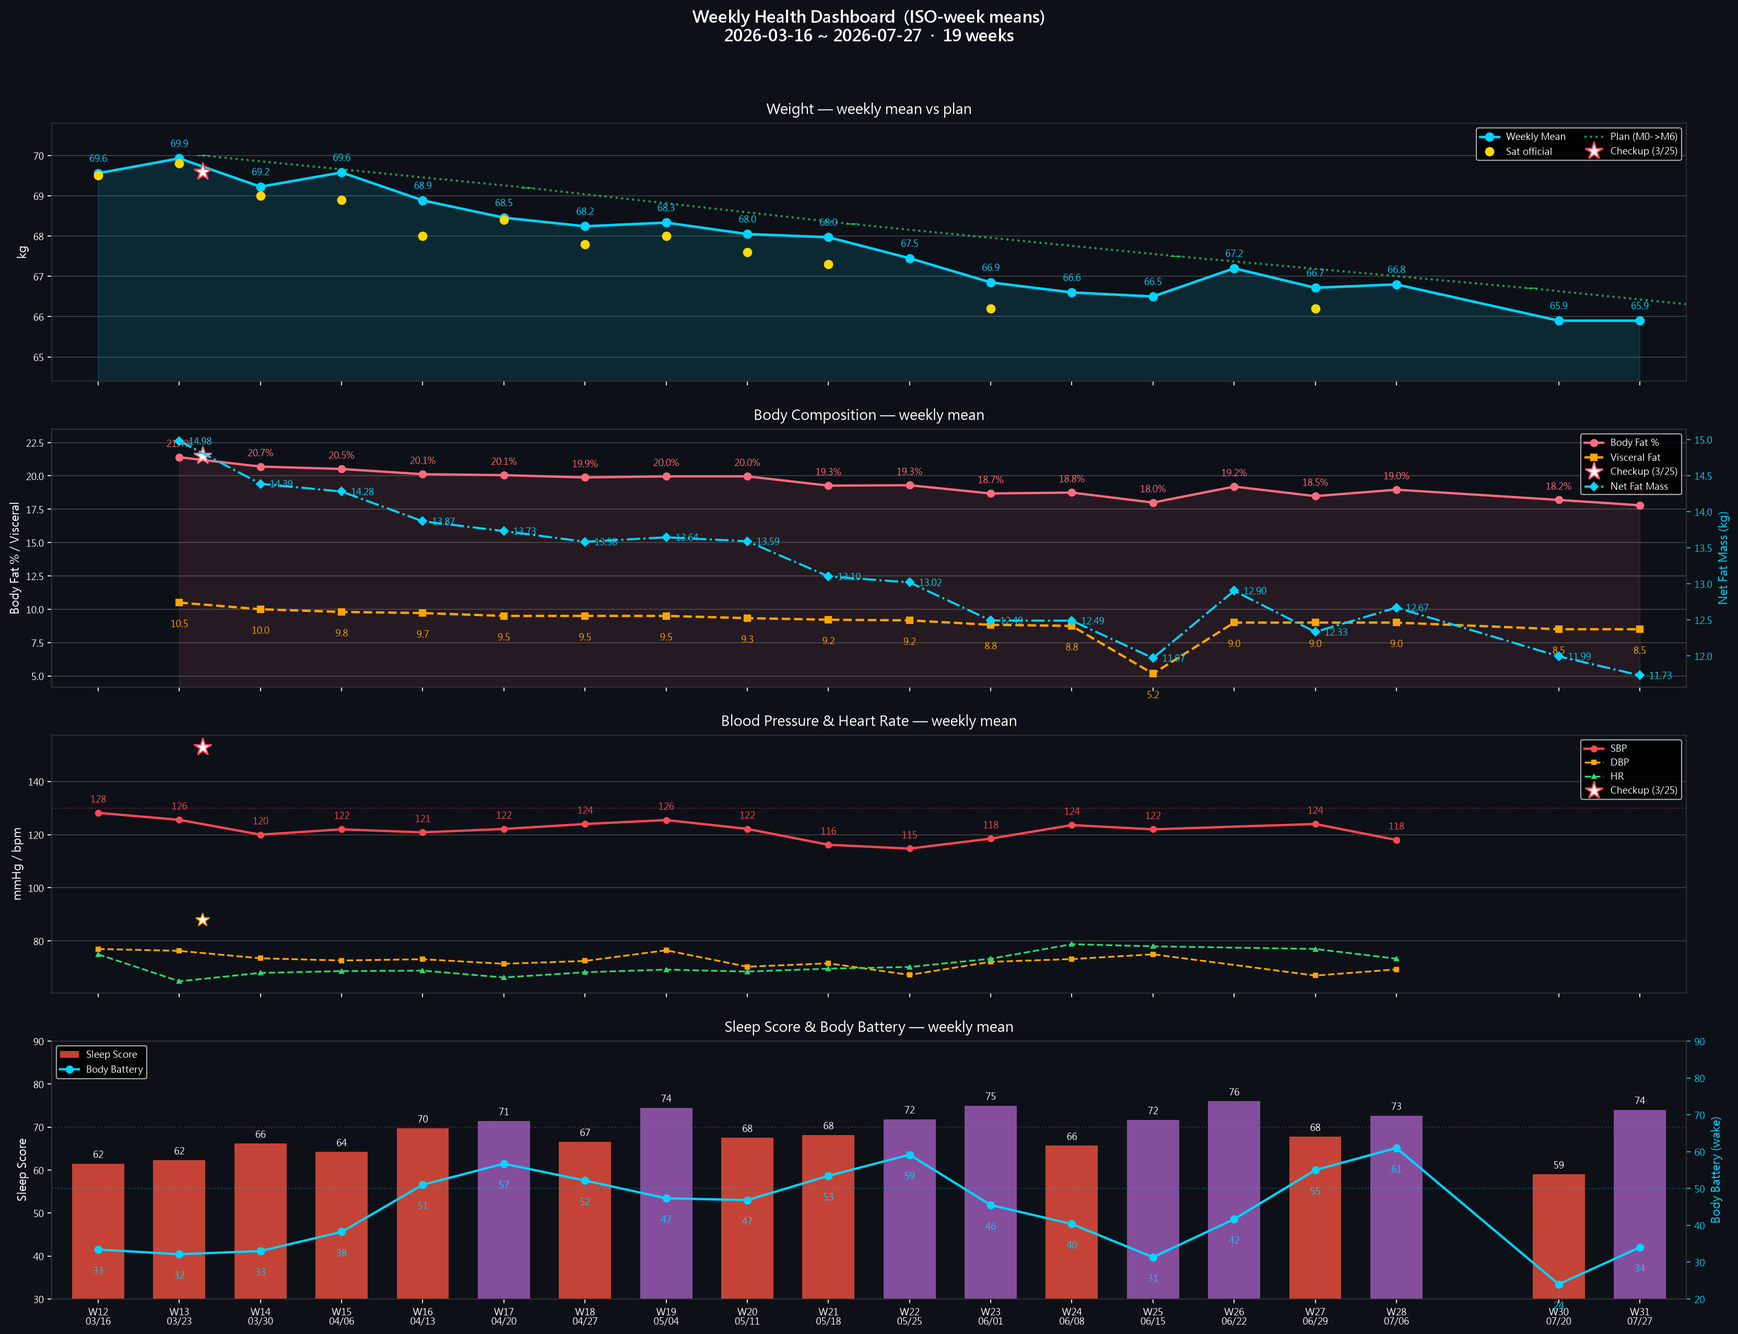
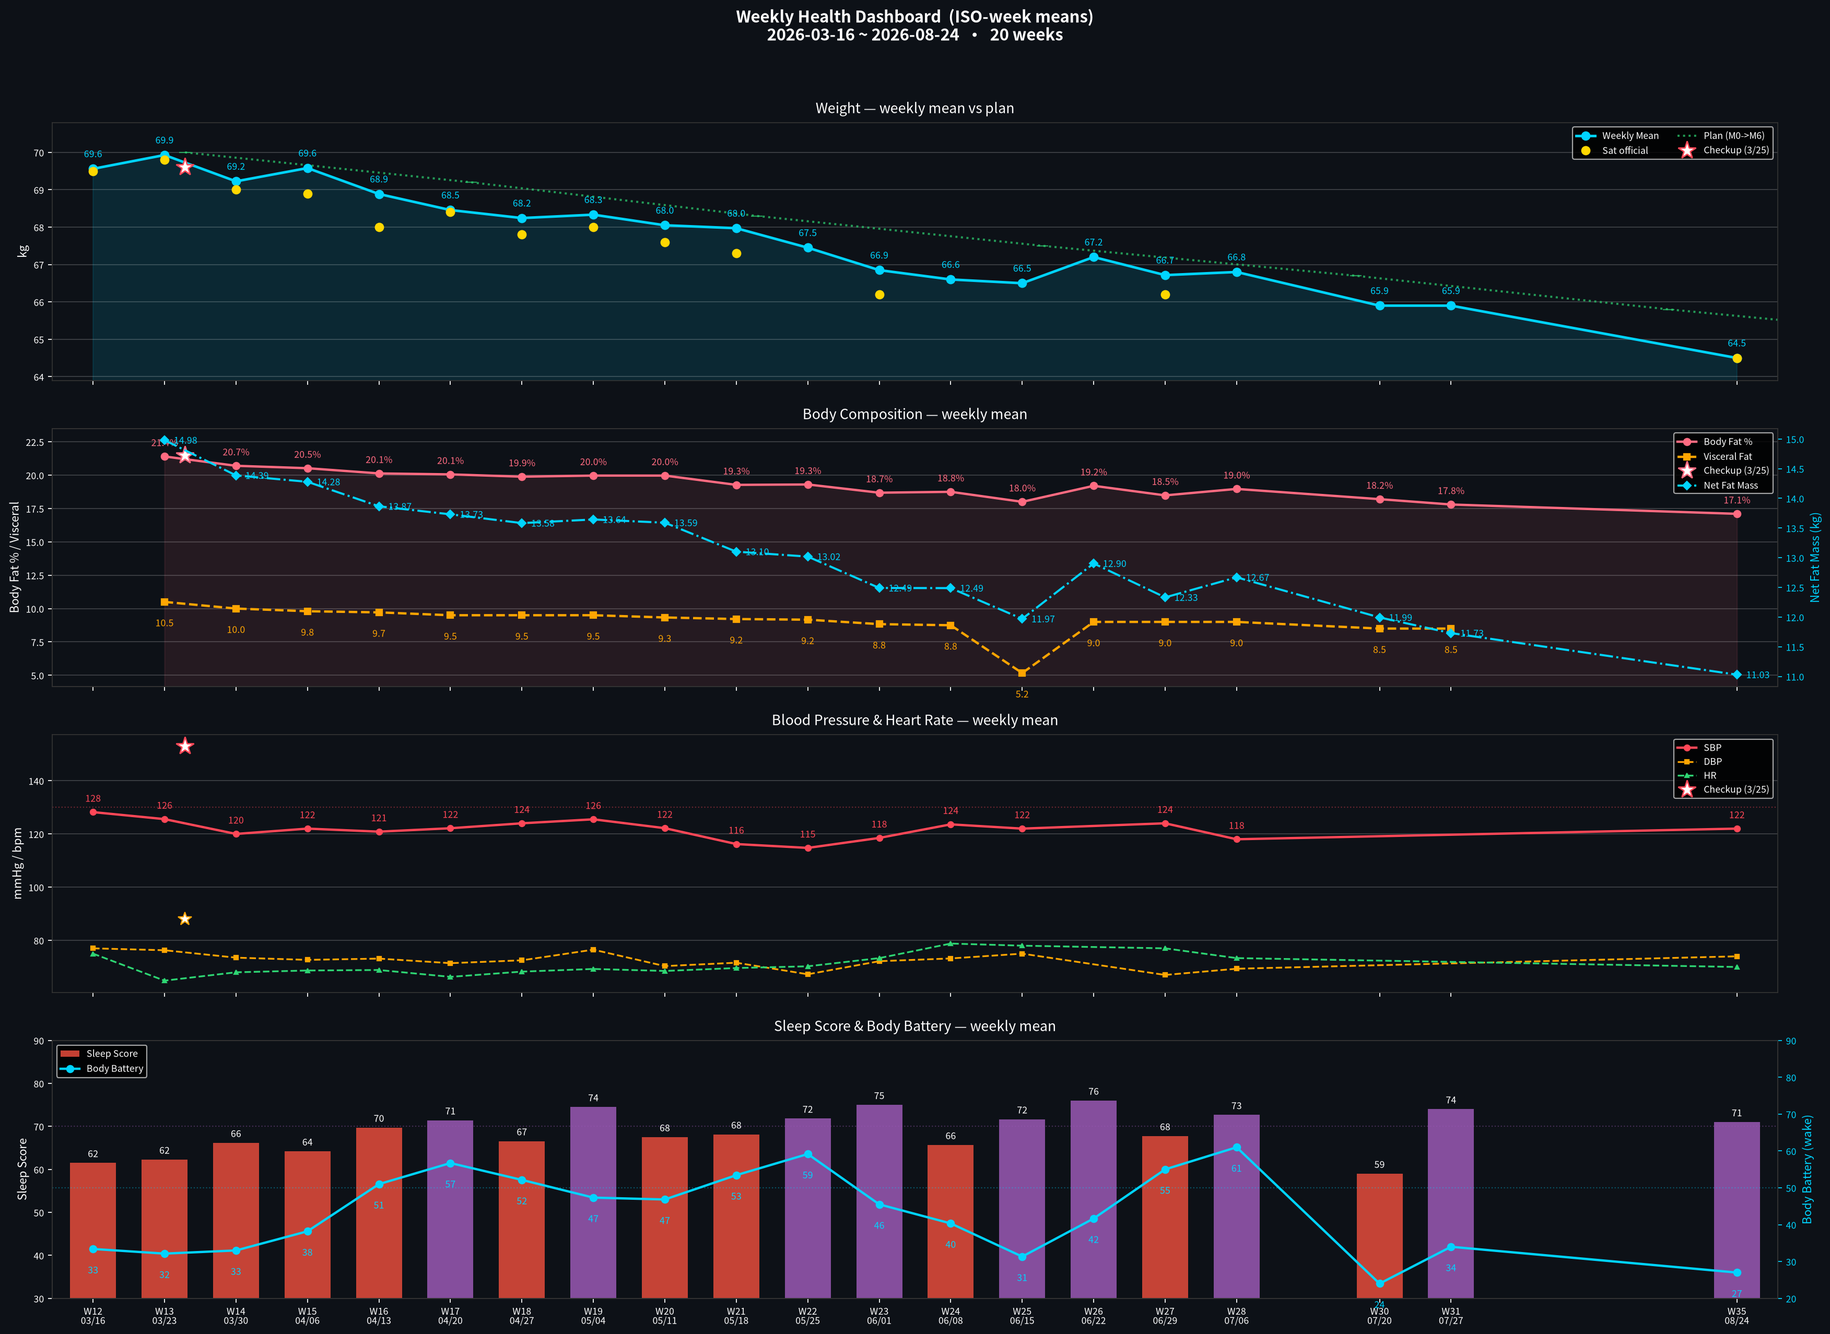
Daily check-in 2026-08-29：週六正式 64.5kg/17.1%，腰圍 78cm 首破 80，LBM 護欄告警
- 體重 64.5 kg（vs 7/27 65.9，−1.4 kg）／體脂 17.1%（−0.7%）
- 腰圍 WHO 78 cm 首度進入 < 80 目標區，WHtR 0.459 已優於理想線 0.47
- BP 122/74/70 正常；身體信號「清」
- Sleep Score 71／Body Battery 起床 27 ⚠（遠低 50 門檻）／TST 6h13m
- ⚠ 推算 LBM 54.2 → 53.5 kg，跌破 54 kg 護欄 — 空窗期減重約一半來自除脂體重
- 新建 reviews/weekly/2026-W35.md（前一份為 W31，中間空窗）
- Garmin sync 於此環境不可用（無 .env），睡眠數據改手動報數
- 重生成 health_dashboard.png / health_dashboard_weekly.png；sync_data_js.py 已同步
- 月份歸檔：2026-07-27 daily + garmin 移入 2026-07/

Claude-Session: https://claude.ai/code/session_015ZnsoaCdQhJ4CnPvXz5Kyr

diff --git a/data.js b/data.js
@@ -17,20 +17,20 @@ window.HC_DATA = {
     lede:    { en: "Sleep, BP, lipids, uric acid — one shared metabolic root. Lifestyle stacks first; medication only after lifestyle plateaus.",
                zh: "睡眠、血壓、血脂、尿酸——共享同一個代謝根源。生活方式介入優先，等到效果平台期再考慮藥物。" },
     progressLbl: { en: "Weight progress · 70 → 65 kg", zh: "體重進度 · 70 → 65 公斤" },
-    progressMeta: { en: "Day 133 · 66.2 kg · Sat official (7/4)", zh: "第 133 天 · 66.2 公斤 · 週六正式（7/4）" },
-    startDate: { en: "Start date · Mar 17, 2026 · Last sync 7/27", zh: "起始日期 · 2026 年 3 月 17 日 · 最後同步 7/27" },
+    progressMeta: { en: "Day 166 · 64.5 kg · Sat official (8/29)", zh: "第 166 天 · 64.5 公斤 · 週六正式（8/29）" },
+    startDate: { en: "Start date · Mar 17, 2026 · Last sync 8/29", zh: "起始日期 · 2026 年 3 月 17 日 · 最後同步 8/29" },
     startWeight: 70,
     targetWeight: 65,
-    currentWeight: 66.2,
-    currentWeightDate: "7/4 Sat official",
+    currentWeight: 64.5,
+    currentWeightDate: "8/29 Sat official",
     // Body comp current actuals — latest daily reading (6/5). Manual for now:
     // sync_data_js.py does NOT yet populate these (only weight/BP/sleep). Update on daily check-in.
-    currentBodyFat: 17.8,
+    currentBodyFat: 17.1,
     currentVisceralFat: 8.5,
-    currentBodyCompDate: "7/27",
+    currentBodyCompDate: "8/29",
     // Waist = WHO midpoint (健檢-comparable; better VAT proxy than weight). Latest non-empty daily reading.
-    currentWaist: 81,
-    currentWaistDate: "7/6",
+    currentWaist: 78,
+    currentWaistDate: "8/29",
   },
 
   // ===== OSA red-flag banner =====
@@ -62,15 +62,15 @@ window.HC_DATA = {
     },
     {
       sys: "sleep", name: { en: "Sleep Score", zh: "睡眠分數" },
-      val: "74", unit: "Garmin",
+      val: "71", unit: "Garmin",
       delta: { en: "Sleep = behavioral/autonomic · OSA/hypoxia ruled out 6/29 (fingertip oximetry flat)", zh: "睡眠＝行為/自律神經 · OSA/缺氧已排除 6/29（指尖血氧整夜平穩）" },
       cadence: { en: "Daily · Garmin", zh: "每日 · Garmin" },
       status: "warn",
     },
     {
       sys: "weight", name: { en: "Weight", zh: "體重" },
-      val: "66.2", unit: "kg",
-      delta: { en: "7/4 Sat official · auto-synced", zh: "7/4 週六正式 · 自動同步" },
+      val: "64.5", unit: "kg",
+      delta: { en: "8/29 Sat official · auto-synced", zh: "8/29 週六正式 · 自動同步" },
       cadence: { en: "Daily · Sat official", zh: "每日 · 週六正式" },
       status: "ok",
     },
@@ -946,17 +946,17 @@ window.HC_DATA = {
   tracker: {
     // [SBP, DBP] — gaps filled with prior reading
     bp: [
-      [125,70], [125,70], [125,70], [125,70], [125,70], [125,70], [125,72], [125,72], [122,59], [120,67], [122,72], [112,69], [112,69], [112,69],
+      [125,70], [125,70], [125,70], [125,70], [125,70], [125,72], [125,72], [122,59], [120,67], [122,72], [112,69], [112,69], [112,69], [122,74],
     ],
     // daily weight (kg)
-    weight: [67.5, 67.2, 66.9, 67.3, 67.5, 66.6, 66.4, 66.3, 66.2, 67.4, 66.8, 66.2, 65.9, 65.9],
+    weight: [67.2, 66.9, 67.3, 67.5, 66.6, 66.4, 66.3, 66.2, 67.4, 66.8, 66.2, 65.9, 65.9, 64.5],
     // Garmin Sleep Score
-    sleep:  [76, 74, 78, 54, 73, 81, 63, 63, 63, 74, 68, 76, 59, 74],
+    sleep:  [74, 78, 54, 73, 81, 63, 63, 63, 74, 68, 76, 59, 74, 71],
     // Body Battery waking
-    bb:     [37, 40, 48, 45, 56, 66, 53, 53, 53, 48, 55, 80, 24, 34],
+    bb:     [40, 48, 45, 56, 66, 53, 53, 53, 48, 55, 80, 24, 34, 27],
     // SpO2 nightly nadir % (last 14 days, parallel to bp/weight/sleep/bb).
     // Earlier nights null until sync_data_js.py backfills; banner only uses trailing values.
-    spo2Nadir: [94, 81, 93, 87, null, null, null, null, null, null, null, null, null, null],
+    spo2Nadir: [81, 93, 87, null, null, null, null, null, null, null, null, null, null, null],
   },
 
   // ===== Running — started 2026-04-26 =====

diff --git a/reviews/weekly/2026-W35.md b/reviews/weekly/2026-W35.md
@@ -1,0 +1,205 @@
+# 週回顧 — 2026-W35（2026-08-24 – 2026-08-30）
+
+*週日晚間填寫。10 分鐘。回顧本週，不批判，只觀察。*
+
+---
+
+## 〇、半年計畫目標對照
+
+*從 index.html 半年健康逆轉計畫提取。每週檢視自己在哪個位置。*
+
+> **⭐ 2026-06-08 起進入 Recomp 相位（同時增肌減脂）**：主 KPI 由「體重」改為「體組成」。**體重持平屬正常**（增肌抵銷減脂；肌酸另 +0.5~1kg 肌內水）；成功判準 = 體脂率↓ + 腰圍↓ + 重訓負荷↑。詳見 `PROGRESS.md` 三、Recomp 相位切換。
+
+| 指標（★=Recomp 主 KPI） | 當月目標 | 本週實際 | 差距 |
+|------|----------|----------|------|
+| ★ 體脂率 | 目標 ≤ 17.0% | **17.1%** | +0.1% |
+| ★ 內臟脂肪 | _____ （目標 ≤ _____） | _____ | _____ |
+| ★ 腰圍 WHO（週均） | < 80 cm（WHtR < 0.50） | **78 cm**（WHtR 0.459）✅ | 達標 |
+| ★ 重訓負荷（漸進超負荷） | 週 2–3 次，較上週進步 | _____ | |
+| 蛋白質攝取（保肌） | ~130 g/天（~2.0 g/kg） | _____ g/天 | |
+| 體重（週六；參考非主 KPI） | ~65 kg 維持區 | **64.5 kg** | −0.5（band 下緣以下）|
+| 收縮壓（週均） | < 130 mmHg（終極 < 125） | **122 mmHg** ✅ | |
+| Sleep Score（週均） | ≥ 70（進階 ≥ 80） | **71** ✅ | |
+| Body Battery 起床值（週均） | ≥ 65（進階 ≥ 75） | **27** ⚠ | −38 |
+| 每日步數（週均） | ≥ _____ 步（依階段） | _____ 步 | |
+| 每週運動時間 | ≥ _____ 分鐘（依階段） | _____ 分鐘 | |
+
+**Recomp 相位參考（6/8 起）：**
+- 體重 ~65 kg 維持區（不再追低）；主軸看體脂率↓ / 內臟脂肪↓ / 腰圍↓ / 重訓負荷↑
+- 阻力訓練：徒手即合格（伏地挺身 + 引體/反式划船 + **深蹲類補下肢**），漸進超負荷 + RIR 1–2 + 每肌群週 ~10 組
+- 蛋白質 ~130 g/天（~2.0 g/kg）為保肌門檻；有氧降為心血管維持
+
+**半年里程碑參考（減脂期歷史，已於 6/8 收手轉維持）：**
+- 第 0 月 70.0 kg → 第 1 月 69.2 → 第 2 月 68.3 → 第 3 月 67.5 → 第 4 月 66.7 → 第 5 月 65.8 → 第 6 月 65.0 kg
+- 運動：第 1-2 月 120-150 分/週 → 第 3-4 月 170-210 分/週 → 第 5-6 月 250-300 分/週
+
+---
+
+## 一、數據總覽
+
+### 體重 / 體組成 / 腰圍
+
+|  | 一 | 二 | 三 | 四 | 五 | 六 | 日 |
+|--|----|----|----|----|----|----|-----|
+| 體重 (kg) | | | | | | 64.5 | |
+| 體脂率 (%) | | | | | | 17.1 | |
+| 內臟脂肪 | | | | | | | |
+| **腰圍 WHO (cm)** | | | | | | 78 | |
+| **腰圍 max (cm)** | | | | | | | |
+
+**本週正式讀數（週六早晨）：** 64.5 kg｜體脂率：17.1%｜內臟脂肪：—｜腰圍：78 cm
+**上次正式讀數（2026-07-27，非上週；中間空窗）：** 65.9 kg｜體脂率：17.8%｜內臟脂肪：8.5｜腰圍：— cm
+**體重變化：** −1.4 kg｜體脂率變化：−0.7%｜內臟脂肪變化：—｜**腰圍變化：** —
+**推算 LBM：** 54.2 → **53.5 kg（−0.7 kg）** ⚠ 跌破 54 kg 護欄 — 減重約一半來自除脂體重
+
+**腰圍週均：** 78 cm（僅 1 日讀數）（每日 7 天平均，較易受食物殘渣 / 水合狀態 / 量測時機影響，週均比單日更穩定）
+**WHtR（腰圍 / 身高比，身高 170 cm）：** **0.459** ✅（目標 < 0.50；理想 < 0.47 — 已達成）
+**腰圍歷史 reference**：2024-12 局部低點 **74 cm** / 2025-09 高峰 **85.5 cm** / 2026-03-25 健檢 **84 cm** / 2026-05-22 自量 **83 cm**
+
+---
+
+### 血壓（第二次讀數）
+
+| 日期 | 收縮壓 | 舒張壓 | 心率 |
+|------|--------|--------|------|
+| 08-24 (一) | | | |
+| 08-25 (二) | | | |
+| 08-26 (三) | | | |
+| 08-27 (四) | | | |
+| 08-28 (五) | | | |
+| 08-29 (六) | 122 | 74 | 70 |
+| 08-30 (日) | | | |
+
+**本週平均：** 122 / 74 mmHg，心率 70 bpm（僅 1 日讀數）
+
+*收縮壓週均 > 130 或舒張壓 > 85 → 標記為需關注。*
+
+---
+
+### 睡眠
+
+| 日期 | 就寢 | 起床 | 中途醒 | Sleep Score | Body Battery | 主觀恢復 |
+|------|------|------|--------|-------------|--------------|----------|
+| 08-24 (一) | | | | | | |
+| 08-25 (二) | | | | | | |
+| 08-26 (三) | | | | | | |
+| 08-27 (四) | | | | | | |
+| 08-28 (五) | | | | | | |
+| 08-29 (六) | 122 | 74 | 70 | | | |
+| 08-30 (日) | | | | | | |
+
+**Sleep Score 週均：** 71 / 100（僅 1 日）
+**Body Battery 週均：** 27 ⚠（僅 1 日；遠低於 ≥65 目標與 50 門檻）
+**主觀恢復感週均：** — / 5（未回報）
+**連續 < 65 天數：** 0
+**22:30 前就寢天數：** — / 7（Garmin sync 不可用）
+
+---
+
+### HRV 趨勢
+
+*週日填寫時執行 `python scripts/analyze_hrv_trend.py` 並貼上 markdown snippet。預設讀全部歷史；用 `--days 28` 限制近 4 週。*
+
+<!-- Paste output from: python scripts/analyze_hrv_trend.py -->
+
+**本週判讀**：
+- Verdict（CONFIRMED / LIKELY / WEAK / NO TREND）：_____
+- 若 CONFIRMED 且 slope < −0.05 ms/night → 訓練 deload 1 週 + 熱量補回 200–300 kcal/day
+- 若整體 mean < 18 ms → paced breathing 6 breaths/min × 5 min × 2/day 加上去
+- 若 OSA 治療介入後 → 期待 3 個月內回升至 25+ ms
+
+---
+
+## 二、身體信號模式
+
+*本週 Daily 中記錄的身體信號，標注出現頻率與強度變化。*
+
+| 信號（部位+性質） | 出現天數 | 平均強度 | 趨勢（↑↓→） | 備註 |
+|-------------------|----------|----------|-------------|------|
+| | | | | |
+
+**反覆出現（≥ 3 天）：** 無 / _____
+
+*同一信號連續 3 天以上 → 考慮就醫或調整訓練。*
+
+---
+
+## 三、執行率
+
+### 每日習慣
+
+| 項目 | 完成天數 | 完成率 |
+|------|----------|--------|
+| 飲水 2.5L | / 7 | % |
+| 補充品（洛神花茶 ×2 + 魚油 ×2 + D3K2 3000IU + 酸櫻桃 500mg + 鎂 400mg + Citrulline 2g + Psyllium 5g ×2） | / 7 | % |
+| 運動 | / 7 | % |
+| 活動度/伸展 | / 7 | % |
+
+### 本週運動紀錄
+
+| 日期 | 運動內容（含組數/時間） |
+|------|------------------------|
+| | |
+
+### 重訓負荷追蹤（Recomp 主 KPI · 漸進超負荷）
+
+*菜單見 `articles/cardio-metabolic/2026-06-11-recomp-resistance-program-1x-2x.md`。每個動作填「重量 × 次數 × 組」，與上週比是否進步（↑ 加重/加次、→ 持平、↓ 退步）。RIR 1–2、不拚 1RM、不憋氣。*
+
+**Day A（蹲 / 水平推）— 日期：_____**
+
+| 動作 | 本週（重量×次×組） | 上週 | 趨勢 |
+|------|------------------|------|------|
+| 深蹲 / 腿推 | | | |
+| 臥推 / 胸推機 | | | |
+| 坐姿划船 | | | |
+| 腿後勾 | | | |
+| 側平舉 | | | |
+| 二頭 / 三頭 | | | |
+
+**Day B（髖鉸鏈 / 垂直拉）— 日期：_____**
+
+| 動作 | 本週（重量×次×組） | 上週 | 趨勢 |
+|------|------------------|------|------|
+| 硬舉 / 臀推 | | | |
+| 下拉 / 引體 | | | |
+| 肩推 | | | |
+| 分腿蹲 / 腿伸展 | | | |
+| 上斜臥推 / 蝴蝶機 | | | |
+| 錘式彎舉 / 過頭三頭 | | | |
+
+**本週判讀：** 重訓次數 _____ / 2｜整體負荷趨勢（多數動作 ↑/→/↓）：_____｜蛋白達標天數：_____ / 7（目標 ~130 g/天）
+*成功判準 = 體脂率↓ + 腰圍↓ + 重訓負荷↑（體重持平正常）。若負荷連兩週無法進步 → 查睡眠/蛋白/熱量。*
+
+---
+
+## 四、本週觀察
+
+*一句話描述本週整體狀態。不用完美，誠實就好。*
+
+> 一個月空窗後回來量：腰圍 78 cm 首度進入 < 80 目標區、WHtR 0.459 已優於理想線、BP 122/74 穩、身體信號清 —— 表層指標全綠。但體重 65.9 → 64.5 的 −1.4 kg 中，推算 LBM 掉了 0.7 kg（54.2 → 53.5），護欄破線。腰圍變小有一部分不是脂肪走，是肌肉走。Body Battery 27 也指向同一件事：熱量/蛋白/恢復三端同時不足。
+
+---
+
+## 五、下週調整
+
+*根據本週觀察，列出 1–3 個具體、可執行的調整。不要列太多。*
+
+- [ ] **蛋白質 ≥ 130 g/天，7 天全達標**（LBM 護欄已破，這是第一優先，非選配）
+- [ ] **阻力訓練恢復週 2 次（Day A / Day B）**，重點在把負荷追回空窗前水準，不追新高
+- [ ] **體重停在 64.5–65.5，不再往下**；下週六重量體脂 + 輝葉八電極（軀幹脂肪 / 分段 LBM）確認 LBM 是真跌還是 Tanita 推算誤差
+
+---
+
+## 六、恢復策略紀錄
+
+*若本週觸發任何警報（Sleep Score < 65、身體信號 ≥ 3 天、血壓異常），記錄採取的應對措施。*
+
+| 警報 | 應對措施 | 效果 |
+|------|----------|------|
+| LBM 推算 53.5 kg（< 54 護欄） | 蛋白 ≥130 g/天 + 阻力訓練週 2 次 + 體重止跌 | 待下週六複測 |
+| Body Battery 起床 27（< 50） | 當日訓練降級（RIR 2-3、有氧僅 Z2 30 min）；wind-down 準時 | 待追蹤 |
+| 昨日飲水 2.0 L（< 2.5 目標） | 今日目標拉至 2.8 L，17:00 前完成 70% | 待追蹤 |
+
+---
+
+*Filed: reviews/weekly/2026-W35.md*

diff --git a/reviews/daily/2026-08-29.md b/reviews/daily/2026-08-29.md
@@ -1,0 +1,110 @@
+# 晨間健康紀錄 — 2026-08-29
+
+*3 分鐘。起床後立即完成。記錄，不分析。*
+
+---
+
+## 體重 / 體組成
+
+**今日：64.5 kg**（週六正式紀錄）
+**體脂率：17.1 %**
+**內臟脂肪等級：—**（今日未讀）
+**腰圍 (WHO midpoint)：78 cm** ✅ 首度進入 < 80 目標區（WHtR = 78/170 = **0.459**，優於理想線 0.47）
+**腰圍 (最大腹圍)：— cm**（今日未量）
+
+**軀幹脂肪（輝葉八電極，主 KPI）：— kg（— %）**（今日未量）
+**除脂體重 LBM（護欄）：≈ 53.5 kg（推算 64.5 × 82.9%）** ⚠ **跌破 54 kg 護欄**
+
+*每週六早晨為正式體重紀錄（排尿後、進食前）。*
+
+**vs 上次正式紀錄（2026-07-27，COVID 恢復期）：** 65.9 → 64.5 kg（**−1.4 kg**）｜體脂 17.8% → 17.1%（**−0.7%**）｜推算 LBM 54.2 → 53.5 kg（**−0.7 kg**）
+
+---
+
+## 血壓（晨間）
+
+*起床後 1 小時內，上完廁所、進食前。坐下安靜 5 分鐘，連量兩次取第二次。*
+
+| 次數 | 收縮壓 | 舒張壓 | 心率 |
+|------|--------|--------|------|
+| 第一次 | — | — | — |
+| 第二次 | 122 | 74 | 70 |
+
+✅ 122/74 落在正常區（目標 < 130 / < 85），心率 70 bpm。
+
+---
+
+## 睡眠狀態
+
+**Garmin 偵測入睡：**（Garmin sync 不可用，手動報數）
+**實際上床：**（未填）
+**實際起床：**（未填）
+**中途醒來：** 未回報
+**Garmin Sleep Score：** 71 / 100
+**Garmin Body Battery 起床值：** 27 ⚠
+**主觀恢復感：** — / 5（未填）
+**入睡 latency：**（無資料）
+
+總時長 **6h 13m**（未達 7h 目標）
+
+### SpO2 夜間數值（僅參考 — OSA 篩檢已撤回 2026-06-29）
+
+> ⚠ 指夾式（透射式）連續血氧證實整夜平穩、無掉氧；腕式 SpO2 掉氧為動作 artifact。不作 OSA 判讀、不觸發紅旗。
+
+**今晨最低 SpO2：** —%（無資料）
+**今晨日均 SpO2：** —%（無資料）
+
+*Sleep Score 71 尚可，但 **BB 起床值 27** 為明顯偏低（門檻 50 / 進階 65），配合 TST 6h13m → 今日以恢復為主。*
+
+---
+
+## 昨日回顧
+
+**實際飲水量：** 2.0 L（目標 ≥ 2.5L；高尿酸最佳 2.8–3.0L）⚠ 未達標，UA 排泄效率打折
+**昨日活動消耗：** — kcal（Garmin sync 不可用）
+**昨日 Na / K / Na-K ratio：** —（無飲食紀錄）
+
+---
+
+## 身體信號
+
+*任何張力、疼痛、疲勞、異常 — 或「清」。*
+
+| 部位 | 性質 | 強度 (0-10) |
+|------|------|-------------|
+| — | **清** | 0 |
+
+---
+
+## 今日計畫速記
+
+- [ ] 飲水目標：**2.8 L**（錨點 09:30 ≥1.0L / 13:30 ≥2.0L / 17:00 截止 2.5L）
+- [ ] 補充品（核心，2026-05-11 v2）：
+  - 早餐（06:00）：D3 2000 IU + K2 MK-7 180 mcg + L-Citrulline 4 g + 益生菌
+  - 午餐前 30 min：Psyllium 5 g + 350 mL 水
+  - 晚餐前 30 min：Psyllium 5 g + 350 mL 水
+  - 晚餐後：魚油 ×4（拆 18:30 ×2 + 19:30 ×2）
+  - 睡前（21:00）：鎂甘胺酸 400 mg + 酸櫻桃 1000-2000 mg + Glycine 純粉 3 g
+  - 茶飲：洛神花 ×2 杯（早 + 14:00 前）
+  - 食物層：南瓜籽 30 g（15:30）+ 菇蕈 100-130 g/天
+- [ ] 運動（17:00 固定）：**BB 27 → 降級**。阻力訓練照做但降量（RIR 2-3、組數砍 1/3），有氧只做 Zone 2 走路 30 分
+- [ ] **蛋白質今日硬目標 ≥ 130 g**（LBM 護欄已破，保肌優先）
+- [ ] 活動度/伸展（09:30 + 20:30 兩次錨點）
+- [ ] Wind-down（20:00 燈光降 + 螢幕濾鏡，液體截止）
+- [ ] 上床 21:30 / 熄燈 22:00（TST 目標 7h+）
+
+---
+
+## ⚠ 本日旗標
+
+1. **LBM 跌破 54 kg 護欄**（推算 53.5 kg）— 一個月空窗期間體重 −1.4 kg，其中約 **一半來自除脂體重**（−0.7 kg LBM vs −0.7 kg 脂肪）。這不是乾淨的 Recomp，是掉肌肉。**下週優先**：蛋白質 ≥130 g/天 + 阻力訓練回到週 2 次，體重不再往下追。
+2. **Body Battery 起床值 27** — 遠低於 50 門檻。今日訓練降級，觀察是否為單日或趨勢。
+3. **飲水 2.0 L 未達標** — 高尿酸體質下 UA 排泄效率降低，今日目標拉到 2.8 L。
+
+---
+
+💡 **PT 建議：** 身體信號「清」、BP 122/74 正常、腰圍 78 cm 進入目標區，這些都是好訊號；問題出在恢復端 —— BB 27 + TST 6h13m 代表昨夜恢復不足，今天運動照做但降強度（RIR 2-3、有氧只走 Zone 2 30 分）。真正要處理的是 LBM −0.7 kg：這一個月體重掉的有一半是肌肉，今起把蛋白質拉到 130 g/天並恢復週 2 次阻力訓練，體重停在 64.5 別再往下。
+
+---
+
+*Filed: reviews/daily/2026-08-29.md*
